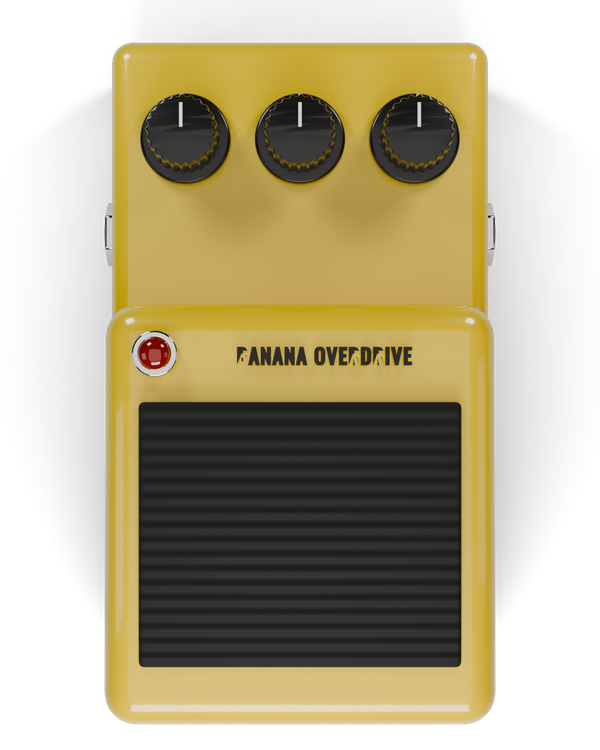
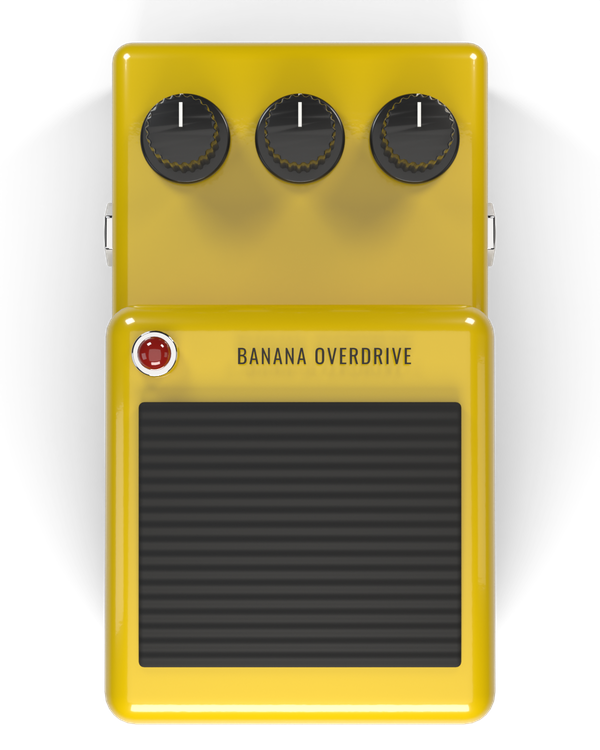
Pedais Banana, Gold e os três efeitos com visual 3D; site e catálogo atualizados
Banana Overdrive e Gold Centaur renderizados de frente com cor e texto
corrigidos; Blueberry Chorus, Coconut Delay e Grape Reverb ganham o visual
próprio. O site mostra os sete pedais e o catálogo marca os prontos.

diff --git a/docs/site/index.html b/docs/site/index.html
@@ -276,34 +276,40 @@
         <p class="en" lang="en">Green three-knob overdrive, inspired by the classic amp pusher.</p>
       </article>
       <article class="pedal">
-        <figure><img src="img/orange-drive.webp" width="600" height="720" loading="lazy" alt="Pedal Orange Drive, laranja, compacto, com três botões e pedal basculante." data-alt-en="Orange Drive pedal, compact and orange, with three knobs and a rocker footswitch."></figure>
+        <figure><img src="img/orange-drive.webp" width="600" height="750" loading="lazy" alt="Pedal Orange Drive, laranja, compacto, com três botões e pedal basculante." data-alt-en="Orange Drive pedal, compact and orange, with three knobs and a rocker footswitch."></figure>
         <h3>Orange Drive</h3>
         <p class="pt">Distorção compacta laranja, inspirada na mais famosa de todas as distorções de pedal.</p>
         <p class="en" lang="en">Compact orange distortion, inspired by the most famous stompbox distortion of all.</p>
       </article>
       <article class="pedal">
-        <figure>
-          <svg viewBox="0 0 200 240" role="img" aria-label="Desenho do pedal Banana Overdrive, amarelo, compacto, com três botões e pedal basculante." data-aria-en="Drawing of the Banana Overdrive pedal, compact and yellow, with three knobs and a rocker footswitch.">
-            <defs><linearGradient id="banana" x1="0" y1="0" x2="0" y2="1"><stop offset="0" stop-color="#ffe45c"/><stop offset="1" stop-color="#d9a90f"/></linearGradient></defs>
-            <rect x="34" y="14" width="132" height="212" rx="14" fill="url(#banana)"/>
-            <g fill="#141414"><circle cx="64" cy="48" r="15"/><circle cx="100" cy="48" r="15"/><circle cx="136" cy="48" r="15"/></g>
-            <g stroke="#f2f2f2" stroke-width="3" stroke-linecap="round"><path d="M64 48V36M100 48V36M136 48V36"/></g>
-            <circle cx="52" cy="86" r="6" fill="#ff6b5a"/>
-            <text x="108" y="91" text-anchor="middle" font-family="Oswald, sans-serif" font-size="13" font-weight="600" fill="#141414" letter-spacing="1">BANANA OD</text>
-            <rect x="46" y="104" width="108" height="92" rx="6" fill="#1b1b1b"/>
-            <g stroke="#2e2e2e" stroke-width="2"><path d="M52 116h96M52 126h96M52 136h96M52 146h96M52 156h96M52 166h96M52 176h96M52 186h96"/></g>
-          </svg>
-        </figure>
+        <figure><img src="img/banana-overdrive.webp" width="600" height="750" loading="lazy" alt="Pedal Banana Overdrive, amarelo, compacto, com três botões e pedal basculante." data-alt-en="Banana Overdrive pedal, compact and yellow, with three knobs and a rocker footswitch."></figure>
         <h3>Banana Overdrive</h3>
         <p class="pt">Overdrive compacto amarelo, inspirado no clássico de som médio e cheio.</p>
         <p class="en" lang="en">Compact yellow overdrive, inspired by the classic with a full, mid-rich voice.</p>
-        <p class="em-breve"><span class="pt">Visual 3D em produção</span><span class="en" lang="en">3D look in production</span></p>
       </article>
       <article class="pedal">
         <figure><img src="img/gold-centaur.webp" width="600" height="630" loading="lazy" alt="Pedal Gold Centaur, dourado, com três botões e pisante de metal." data-alt-en="Gold Centaur pedal, gold, with three knobs and a metal footswitch."></figure>
         <h3>Gold Centaur</h3>
         <p class="pt">Overdrive dourado de luxo, inspirado no pedal mais cobiçado e transparente da história.</p>
         <p class="en" lang="en">Luxury gold overdrive, inspired by the most sought-after transparent pedal in history.</p>
+      </article>
+      <article class="pedal">
+        <figure><img src="img/blueberry-chorus.webp" width="600" height="750" loading="lazy" alt="Pedal Blueberry Chorus, azul, com três botões e pedal basculante." data-alt-en="Blueberry Chorus pedal, blue, with three knobs and a rocker footswitch."></figure>
+        <h3>Blueberry Chorus</h3>
+        <p class="pt">Chorus azul, inspirado no clássico que deixa o som largo e brilhante. Efeito do próprio Nexus, sem captura.</p>
+        <p class="en" lang="en">Blue chorus, inspired by the classic that makes the sound wide and shimmering. Built into Nexus, no capture needed.</p>
+      </article>
+      <article class="pedal">
+        <figure><img src="img/coconut-delay.webp" width="600" height="750" loading="lazy" alt="Pedal Coconut Delay, branco, com três botões e pedal basculante." data-alt-en="Coconut Delay pedal, white, with three knobs and a rocker footswitch."></figure>
+        <h3>Coconut Delay</h3>
+        <p class="pt">Delay branco com repetições que escurecem como numa fita. Ao desligar, as repetições terminam naturalmente.</p>
+        <p class="en" lang="en">White delay whose repeats darken like tape. Switch it off and the repeats fade out naturally.</p>
+      </article>
+      <article class="pedal">
+        <figure><img src="img/grape-reverb.webp" width="600" height="750" loading="lazy" alt="Pedal Grape Reverb, roxo, com três botões e pedal basculante." data-alt-en="Grape Reverb pedal, purple, with three knobs and a rocker footswitch."></figure>
+        <h3>Grape Reverb</h3>
+        <p class="pt">Reverb roxo, de uma sala pequena a um salão enorme. Efeito do próprio Nexus, sem captura.</p>
+        <p class="en" lang="en">Purple reverb, from a small room to a huge hall. Built into Nexus, no capture needed.</p>
       </article>
     </div>
 

diff --git a/plugin/source/PluginEditor.cpp b/plugin/source/PluginEditor.cpp
@@ -1533,7 +1533,7 @@ void NexusEditor::layoutTitle()
 {
   auto t = mTitleArea;
   t.removeFromTop(8);
-  auto titleRow = t.removeFromTop(40);
+  t.removeFromTop(40); // linha do título
   auto subRow = t.removeFromTop(22);
   const auto subFont = Fonts::get().ui(12.5f);
   const int subW = juce::GlyphArrangement::getStringWidthInt(subFont, mSubtitle);

diff --git a/docs/CATALOGO.md b/docs/CATALOGO.md
@@ -31,10 +31,10 @@ pacote de capturas da TONE3000 e o ganho em degraus de 0 a 10.
 | Nome no Nexus | Inspirado em | Cor | Situação |
 |---|---|---|---|
 | Lemon Drive | Ibanez TS9 Tube Screamer | verde | pronto |
-| Orange Drive | Boss DS-1 | laranja | renderizando |
-| Banana Overdrive | Boss SD-1 | amarelo | renderizando |
-| Gold Centaur | Klon Centaur | dourado | renderizando |
-| Blueberry Blues | Boss BD-2 Blues Driver | azul | planejado |
+| Orange Drive | Boss DS-1 | laranja | pronto |
+| Banana Overdrive | Boss SD-1 | amarelo | pronto |
+| Gold Centaur | Klon Centaur | dourado | pronto |
+| (nome a decidir: Blueberry já é o chorus) | Boss BD-2 Blues Driver | azul | planejado |
 | Plum Rat | ProCo RAT | preto | planejado |
 | Fig Fuzz | Electro-Harmonix Big Muff | prata e vermelho | planejado |
 | Cherry Fuzz | Dallas Fuzz Face | vermelho, redondo | planejado |
@@ -47,9 +47,9 @@ Modulação, tempo e utilidades não se capturam bem; o Nexus gera o som.
 
 | Nome no Nexus | Inspirado em | Tipo | Situação |
 |---|---|---|---|
-| Blueberry Chorus | Boss CE-2 | chorus | planejado |
-| Coconut Delay | Boss DD-3 | delay | planejado |
-| Grape Reverb | Boss RV-6 | reverb | planejado |
+| Blueberry Chorus | Boss CE-2 | chorus | pronto |
+| Coconut Delay | Boss DD-3 | delay | pronto |
+| Grape Reverb | Boss RV-6 | reverb | pronto |
 | Peach Phaser | MXR Phase 90 | phaser | planejado |
 | Lime Flanger | MXR Flanger | flanger | planejado |
 | Melon Tremolo | Boss TR-2 | tremolo | planejado |
